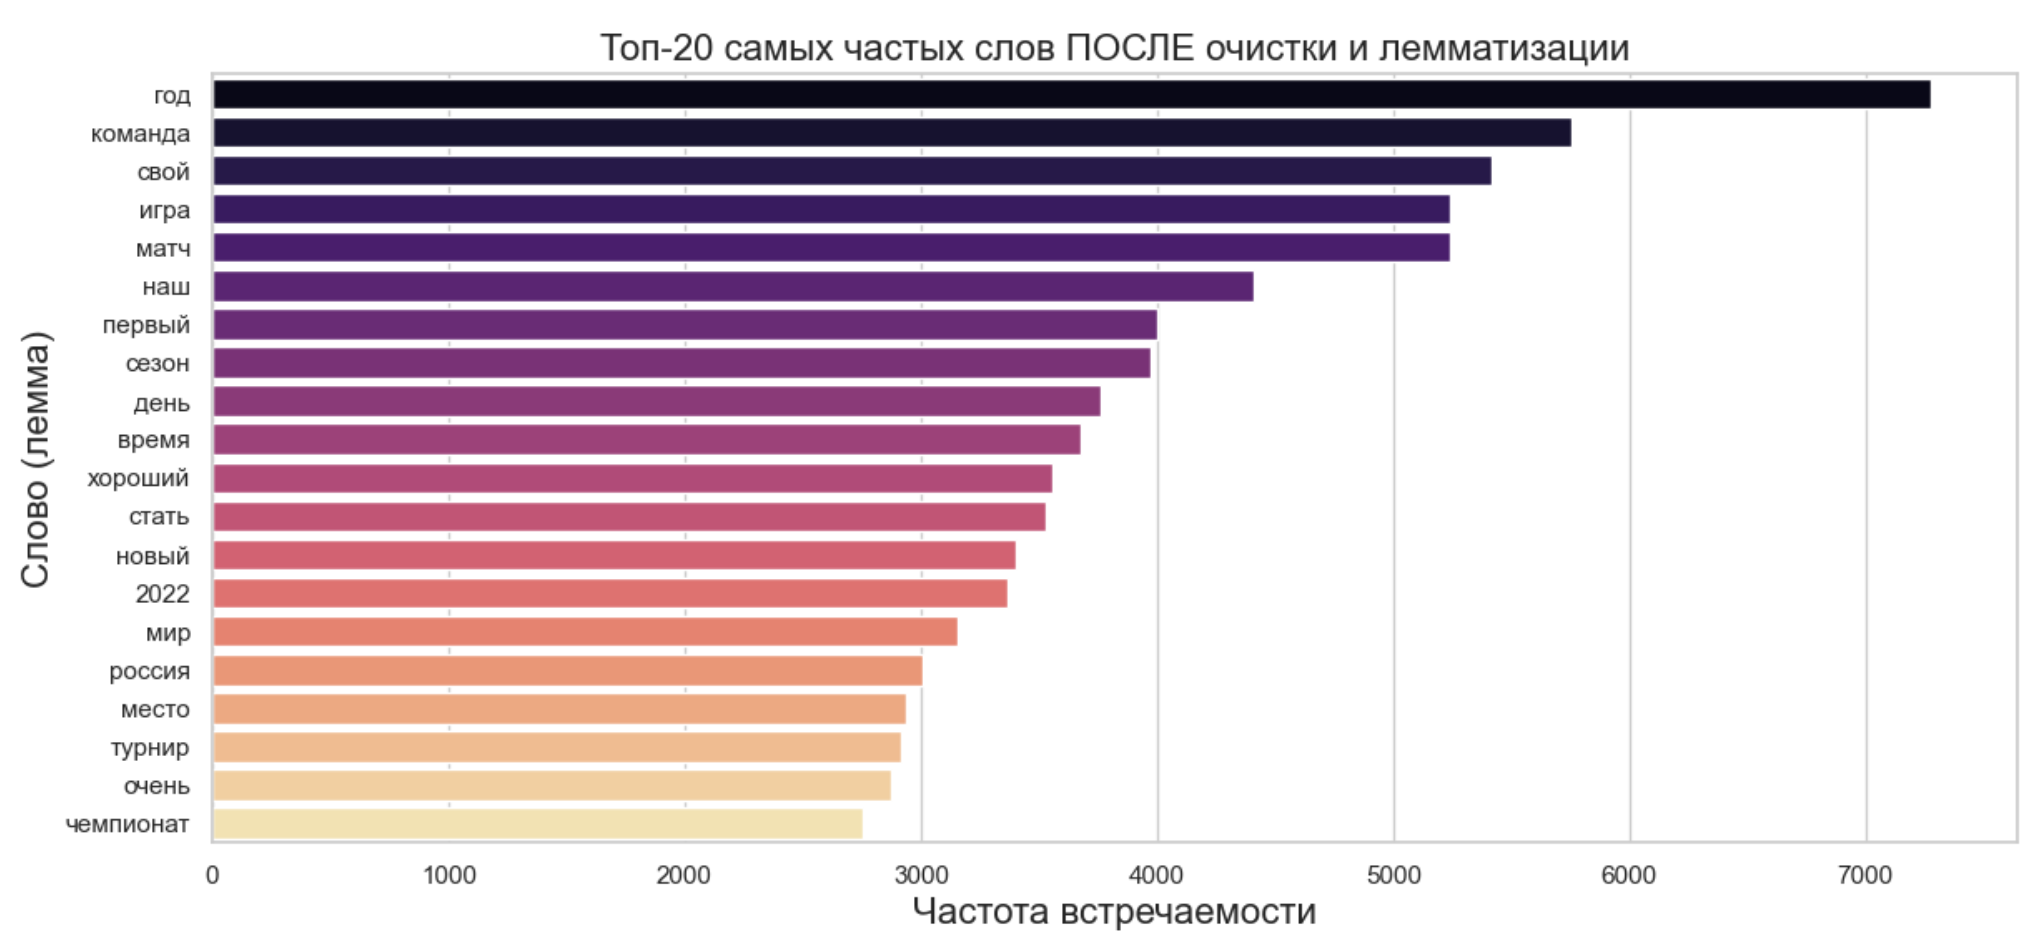
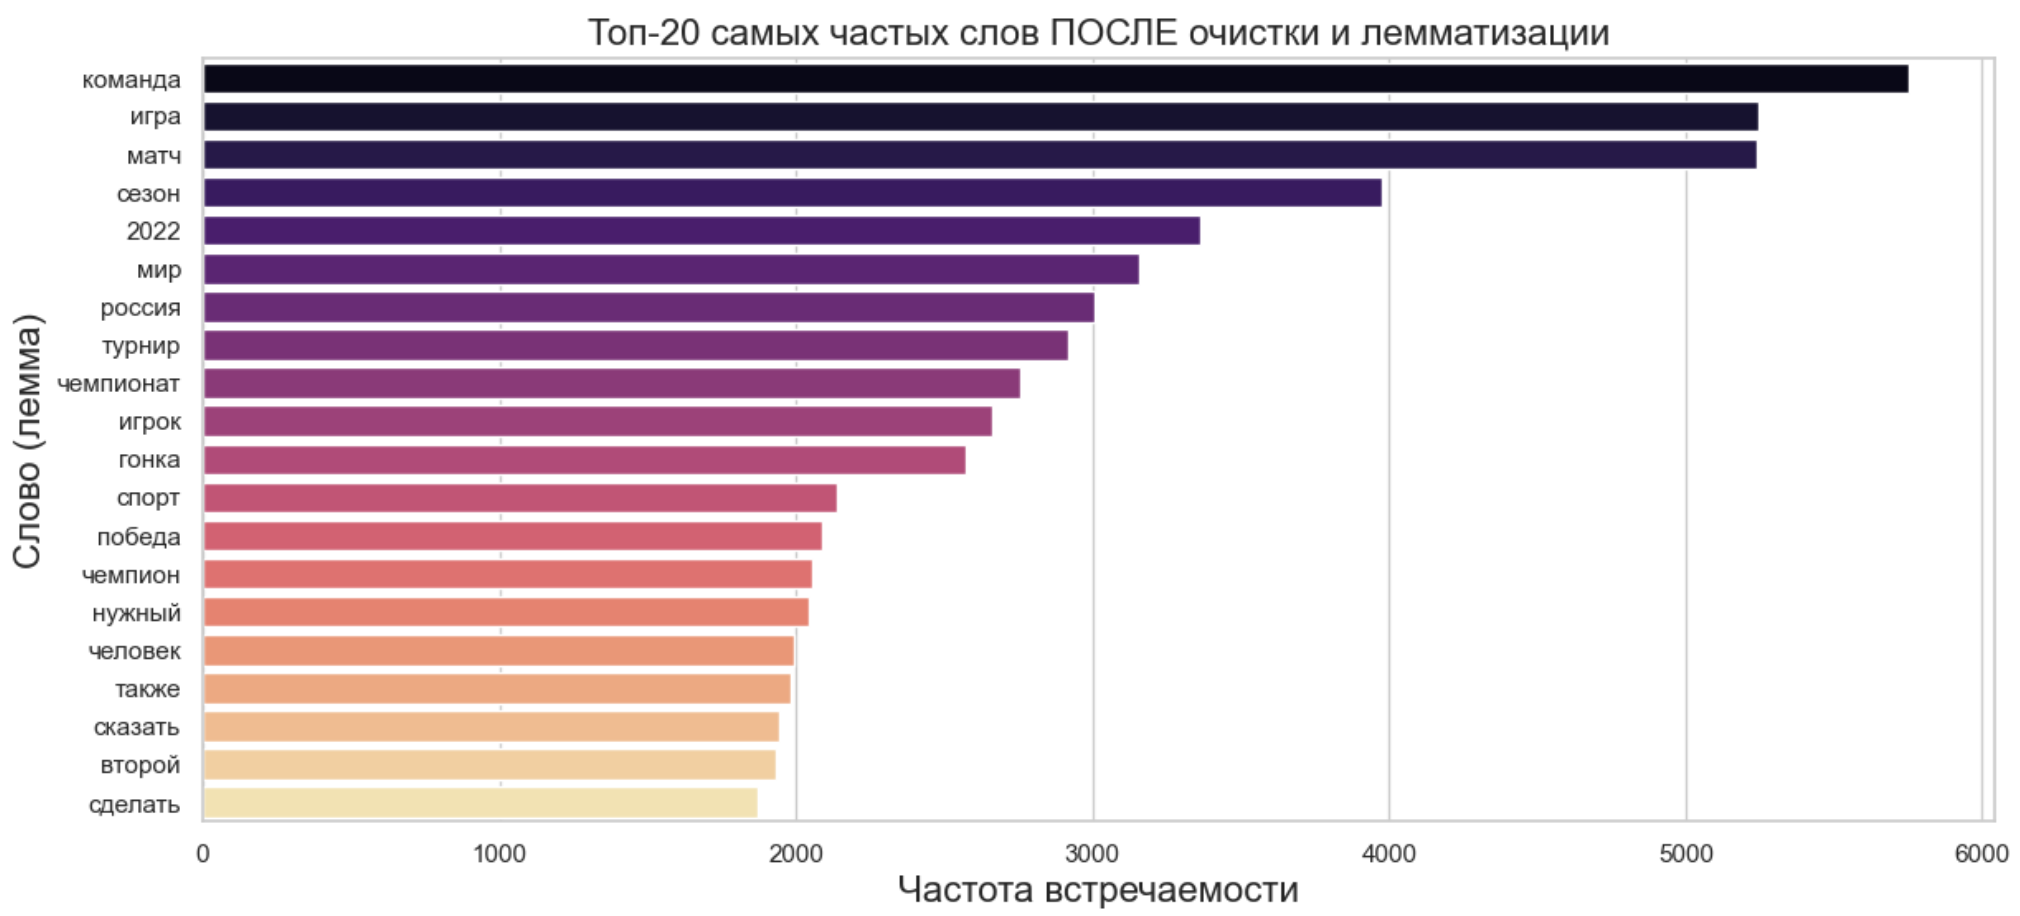
features: TF-IDF initialization function added

Changed region(s): [[0.0, 0.0, 0.998, 1.0]]

diff --git a/b_scr/bd_feature_extraction.py b/b_scr/bd_feature_extraction.py
@@ -1,0 +1,61 @@
+# bd_feature_extraction.py
+
+"""
+Модуль для извлечения признаков из текста с помощью TF-IDF.
+"""
+import logging
+import joblib
+import os
+from sklearn.feature_extraction.text import TfidfVectorizer
+
+from . import ba_config
+
+logger = logging.getLogger(__name__)
+
+def create_and_save_tfidf(train_text, val_text):
+    """
+    Создает TF-IDF векторизатор, обучает его на train и трансформирует train и val.
+    Сохраняет векторизатор на диск для будущего инференса.
+    
+    Args:
+        train_texts: pd.Series с очищенным текстом для обучения
+        val_texts: pd.Series с очищенным текстом для валидации
+        
+    Returns:
+        vectorizer: Обученный TfidfVectorizer
+        X_train: Разреженная матрица признаков для train
+        X_val: Разреженная матрица признаков для val
+    """
+    logger.info("Инициализация TfidfVectorizer")
+    
+    # Настройки векторизатора, основанные на EDA
+    vectorizer = TfidfVectorizer(
+        max_features=10000, # Ограничиваем словарь топ-10000 слов
+        ngram_range=(1, 2), # Учитываем отдельные слова и биграммы (пары слов)
+        min_df=5, # Игнорируем слова, встречающиеся менее чем в 5 документах
+        max_df=0.8, # Игнорируем слова, встречающиеся в более чем 80% документов
+        sublinear_tf=True # Применяем логарифмическое масштабирование частот (улучшает качество)
+    )
+    
+    logger.info("Обучение векторизатора на тренировочных данных")
+    # ВАЖНО: fit_transform только на train, чтобы не было утечки данных из val!
+    X_train = vectorizer.fit_transform(train_text)
+    
+    logger.info("Трансформация валидационных данных")
+    X_val = vectorizer.transform(val_text)
+    
+    logger.info(f"Размер словаря (Vocabulary size): {len(vectorizer.vocabulary_)}")
+    logger.info(f"Форма X_train: {X_train.shape}, Форма X_val: {X_val.shape}")
+    
+    # Сохраняем векторизатор на диск (он понадобится для инференса!)
+    vectorizer_path = os.path.join(ba_config.MODELS_PATH, "tfidf_vectorizer.joblib")
+    
+    # Создаем папку models, если её нет
+    os.makedirs(ba_config.MODELS_PATH, exist_ok=True)
+    
+    joblib.dump(vectorizer, vectorizer_path)
+    logger.info(f"Векторизатор успешно сохранен в: {vectorizer_path}")
+    
+    return vectorizer, X_train, X_val
+
+

diff --git a/README.md b/README.md
@@ -9,7 +9,7 @@
 - [x] Raw data uploading and validation (`bb_data_loader.py`)
 - [x] Exploratory Data Analysis (EDA)
 - [x] Text pre-processing (`bc_preprocessing.py`)
-- [ ] Features creation (TF-IDF)
+- [x] Features creation (TF-IDF)
 - [ ] Model training and comparison (Logistic Regression vs CatBoost)
 - [ ] Inference (`run_inference.py`)
 - [ ] Final documentation and refactoring
@@ -108,14 +108,14 @@ graph TD
 
     %% Узлы: Исходный код (src)
     DataLoader["b_src/bb_data_loader.py"]
-    Preprocessing["b_src/preprocessing.py"]
-    FeatureExtraction["b_src/feature_extraction.py"]
+    Preprocessing["b_src/bc_preprocessing.py"]
+    FeatureExtraction["b_src/bd_feature_extraction.py"]
     ModelsTrain["b_src/models.py / train.py"]
     Evaluate["b_src/evaluate.py"]
     Predict["b_src/predict.py"]
 
     %% Узлы: Артефакты и Скрипты
-    SavedModels[("models/vectorizer.pkl, model.cbm")]
+    SavedModels[("models/tfidf_vectorizer.joblib, model.cbm")]
     RunTrain["scripts/run_training.py"]
     RunInference["scripts/run_inference.py"]
 
